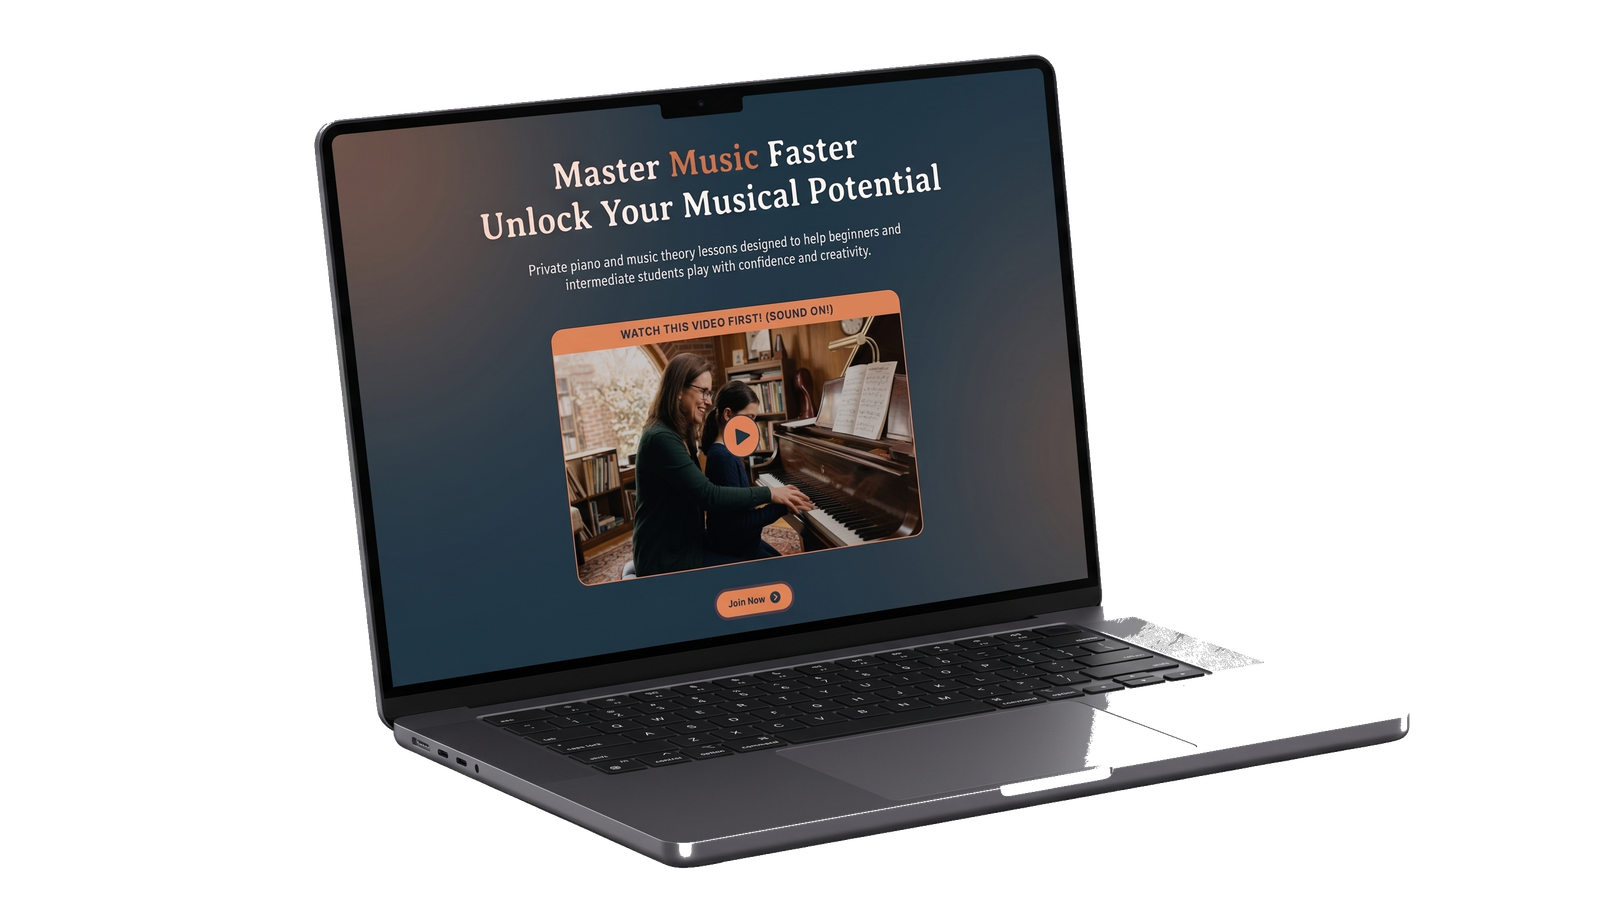
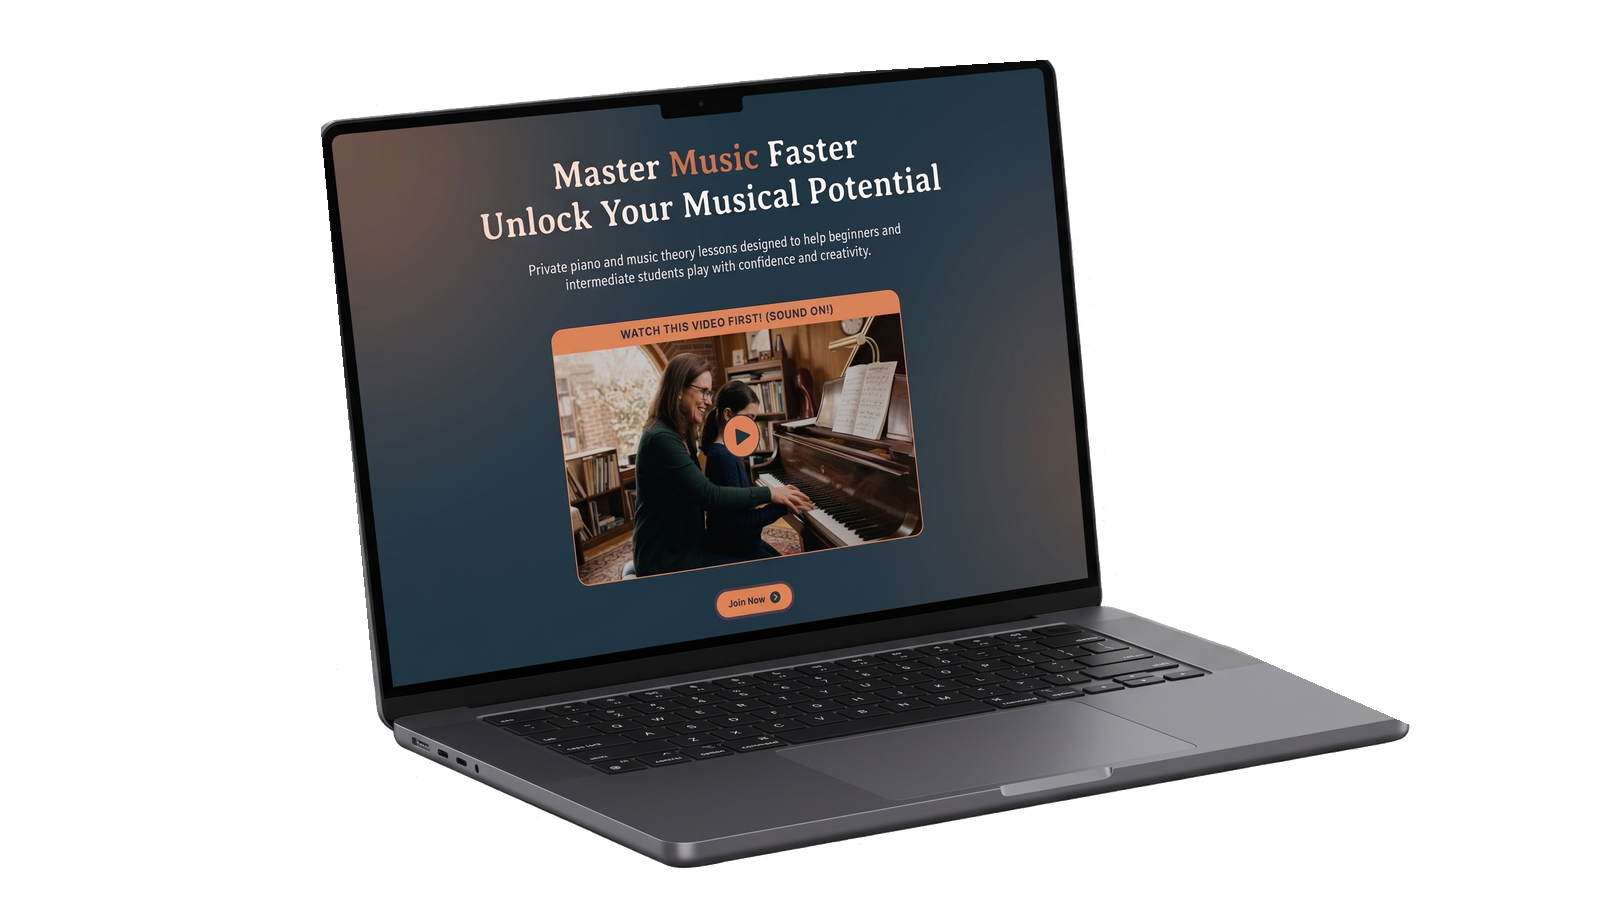
Make hero full viewport

diff --git a/assets/styles.css b/assets/styles.css
@@ -124,9 +124,10 @@ a {
   width: 100%;
   max-width: none;
   display: block;
-  min-height: 486px;
+  min-height: 100vh;
+  min-height: 100svh;
   margin-top: 0;
-  padding: 58px max(24px, calc((100vw - 1200px) / 2)) 28px;
+  padding: 58px max(24px, calc((100vw - 1200px) / 2)) clamp(44px, 8vh, 88px);
   border-radius: 0;
   color: var(--white);
   background:
@@ -138,10 +139,10 @@ a {
 
 .hero::after {
   position: absolute;
-  left: -120px;
-  bottom: -210px;
-  width: 430px;
-  height: 430px;
+  left: -130px;
+  bottom: -120px;
+  width: clamp(420px, 32vw, 620px);
+  height: clamp(420px, 32vw, 620px);
   border-radius: 50%;
   background: rgba(61, 117, 168, 0.42);
   filter: blur(1px);
@@ -159,7 +160,7 @@ a {
 .hero-copy {
   position: absolute;
   right: max(24px, calc((100vw - 1200px) / 2));
-  bottom: 22px;
+  bottom: clamp(44px, 8vh, 90px);
   left: max(24px, calc((100vw - 1200px) / 2));
   z-index: 4;
   display: grid;
@@ -193,10 +194,10 @@ h1 {
 }
 
 .hero h1 {
-  max-width: 940px;
+  max-width: 1120px;
   margin: 0 auto;
   color: var(--white);
-  font-size: clamp(31px, 3.2vw, 48px);
+  font-size: clamp(42px, 4.6vw, 72px);
   line-height: 1.04;
   text-shadow: 0 8px 28px rgba(0, 0, 0, 0.22);
 }
@@ -372,10 +373,10 @@ h3 {
 
 .hero-visual::before {
   position: absolute;
-  top: 164px;
+  top: clamp(236px, 31vh, 360px);
   right: max(94px, calc((100vw - 1200px) / 2 + 98px));
-  width: 315px;
-  height: 170px;
+  width: clamp(315px, 24vw, 420px);
+  height: clamp(170px, 13vw, 230px);
   border: 1px solid rgba(255, 255, 255, 0.18);
   border-radius: 8px;
   background:
@@ -387,10 +388,10 @@ h3 {
 
 .hero-device {
   position: absolute;
-  top: 74px;
+  top: clamp(96px, 13vh, 160px);
   left: max(18px, calc((100vw - 1200px) / 2 - 10px));
   z-index: 2;
-  width: min(600px, 48vw);
+  width: min(760px, 48vw);
   height: auto;
   filter: drop-shadow(0 26px 40px rgba(0, 0, 0, 0.34));
   transform: rotate(-11deg);
@@ -545,7 +546,7 @@ h3 {
 
 .metric-card {
   z-index: 3;
-  top: 80px;
+  top: clamp(96px, 14vh, 178px);
   right: max(56px, calc((100vw - 1200px) / 2 + 36px));
   left: auto;
   bottom: auto;
@@ -573,7 +574,7 @@ h3 {
 
 .flow-card {
   z-index: 3;
-  top: 182px;
+  top: clamp(260px, 34vh, 386px);
   right: max(400px, calc((100vw - 1200px) / 2 + 386px));
   left: auto;
   bottom: auto;
@@ -1050,7 +1051,8 @@ textarea {
   }
 
   .hero {
-    min-height: 520px;
+    min-height: 100vh;
+    min-height: 100svh;
     padding-top: 58px;
   }
 
@@ -1059,26 +1061,26 @@ textarea {
   }
 
   .hero-device {
-    top: 92px;
+    top: clamp(96px, 16vh, 150px);
     left: 10px;
-    width: min(560px, 68vw);
+    width: min(680px, 72vw);
   }
 
   .hero-visual::before {
-    top: 170px;
+    top: clamp(220px, 32vh, 330px);
     right: 32px;
     width: 270px;
     height: 150px;
   }
 
   .metric-card {
-    top: 78px;
+    top: clamp(80px, 12vh, 130px);
     right: 18px;
     width: 202px;
   }
 
   .flow-card {
-    top: 320px;
+    top: clamp(320px, 46vh, 440px);
     right: 22px;
     width: 230px;
   }
@@ -1114,7 +1116,8 @@ textarea {
 
   .hero {
     width: 100%;
-    min-height: 520px;
+    min-height: 100vh;
+    min-height: 100svh;
     margin-right: 0;
     margin-left: 0;
     padding: 58px 16px 24px;
@@ -1156,29 +1159,29 @@ textarea {
 
   .hero-copy {
     right: 16px;
-    bottom: 22px;
+    bottom: clamp(34px, 7vh, 70px);
     left: 16px;
     width: auto;
     max-width: none;
   }
 
   .hero-device {
-    top: 96px;
-    left: -76px;
-    width: 390px;
+    top: clamp(100px, 14vh, 132px);
+    left: -92px;
+    width: 440px;
     max-width: none;
     transform: rotate(-11deg);
   }
 
   .hero-visual::before {
-    top: 134px;
+    top: clamp(172px, 24vh, 226px);
     right: -52px;
     width: 190px;
     height: 118px;
   }
 
   .metric-card {
-    top: 62px;
+    top: clamp(70px, 9vh, 92px);
     right: 14px;
     left: auto;
     bottom: auto;
@@ -1191,7 +1194,7 @@ textarea {
   }
 
   .flow-card {
-    top: 270px;
+    top: clamp(330px, 44vh, 390px);
     right: 16px;
     display: flex;
     width: 190px;
